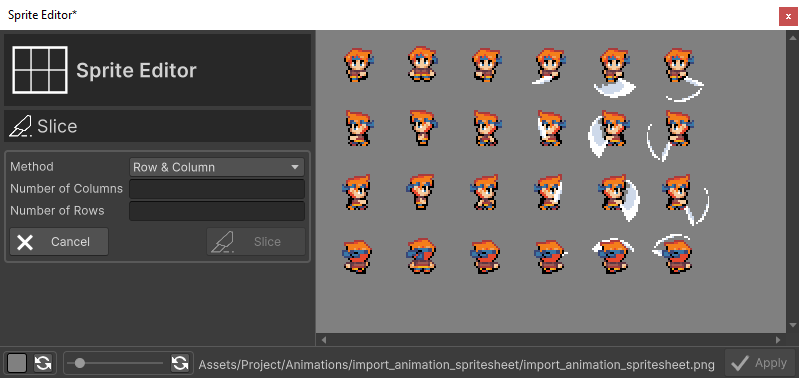
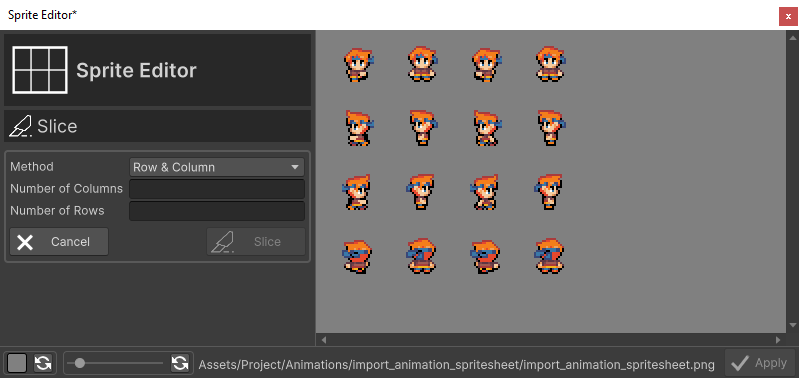
anim

diff --git a/scripts/config.py b/scripts/config.py
@@ -68,5 +68,16 @@ class config:
         'Aseprite',
         'Probuilder',
         'Assets Importer',
-        'Sprite Editor'
+        'Sprite Editor',
+        'Sprite Sheet',
+        'Sprite',
+        'Sprites',
+        'Slice',
+        'Animation',
+        'Animations',
+        'Props',
+        'Tile',
+        'Tiles',
+        'Collection',
+        'Collections'
     ]

diff --git a/src/en/stable/user_manual/assets_management/assets_importer/import_animations.md b/src/en/stable/user_manual/assets_management/assets_importer/import_animations.md
@@ -27,7 +27,7 @@ Aseprite File| Import an Aseprite file that already contain animation informatio
 
 ### Sprite Sheet
 
-Let's import this sample sprite sheet (a character walking and attacking in 4 directions) :
+Let's import this sample sprite sheet (a character walking in 4 directions) :
 
 ![import_animation_spritesheet.png](../../../../../../media/user_resources/import_animation_spritesheet.png)
 
@@ -35,7 +35,7 @@ Let's import this sample sprite sheet (a character walking and attacking in 4 di
 You can download all of our tutorial resources here : [download user_resources.zip file](https://rpgpowerforge.com/media/user_resources.zip)
 ```
 
-#### Import the sprite sheet file
+#### Import the Sprite Sheet file
 [[Select the Sprite Sheet button]] and choose the file to import in your file browser.
 ![import_animation_window_sprite_sheet.png](../../../../../../media/user_manual/assets_management/import_animation/import_animation_window_sprite_sheet.png)
 
@@ -45,34 +45,95 @@ The Sprite Sheet is imported into our Sprite Editor :
 
 
 #### Slice the Sprite Sheet
-A Sprite Sheet is usually composed of multiple Sprites arranged in a grid, like our current sample. We can slice the Sprite Sheet into indivisual Sprites with the Slice function. [[Select the Slice button]] :
+A Sprite Sheet is usually composed of multiple Sprites arranged in a grid, like our current sample. We can slice the Sprite Sheet into individual Sprites with the Slice function. [[Select the Slice button]] :
 ![import_animation_slice_view_no_slice.png](../../../../../../media/user_manual/assets_management/import_animation/import_animation_slice_view_no_slice.png)
+
+You can Slice a Sprite Sheet with 2 methods :
 
 Slice method|Description
 --------|--------
-Row & Column | Slice according to a number of row and columns
-Pixel Size | Slice according to X and Y individual Sprite size.
+Row & Column | Slice according to a number of rows and columns.
+Pixel Size | Slice according to X and Y individual Sprite size (width and height).
 
-Everytime you change method or fields values, you will see an updated preview of the slice (blue grid).
+Everytime you change a value, the slice preview will update (blue grid).
 
 ![import_animation_slice_view_no_slice.png](../../../../../../media/user_manual/assets_management/import_animation/import_animation_slice_view_row_column.png)
 
-[[Select Slice]] once the preview match your desire. You will go back to the main window of the Sprite Editor :
+[[Select the Slice button]] once the preview match your desire.  You will be redirected to the main Sprite Editor screen :
 
 ![import_animation_general_view_sliced.png](../../../../../../media/user_manual/assets_management/import_animation/import_animation_general_view_sliced.png)
 
-#### Delete Sprites
+#### Delete Sprites (optional)
 
 It is possible to remove unnecessary Sprites. 2 methods :
- * if the Sprite is empty, you can [[Select the Delete Empty Sprites button]] to remove all of the empty Sprites at once.
- * if the Sprite is not empty, you can :
-     * For a single sprite : select it + right-click > [[Delete]].
-     * For multiple sprites : select multiple with left-click + SHIFT key, then right-click > [[Delete]].
+ * **Automatic** : if the Sprite is empty, you can [[Select the Delete Empty Sprites button]] to remove all of the empty Sprites at once.
+ * **Manual** : if the Sprite is not empty, you can :
+     * For a single sprite : 
+       * Select the Sprite
+       * Right-click > [[Delete]].
+     * For multiple sprites (rectangle selection): 
+        * Select the first Sprite
+        * Select the last Sprite (while holding SHIFT key)
+        * Right-click > [[Delete]].
 
-![import_animation_general_view_delete_sprites.png](../../../../../../media/user_manual/assets_management/import_animation/import_animation_general_view_delete_sprites.gif)
+Here is an example of multiple Sprites deletion with SHIFT key.
+
+![import_animation_general_view_delete_sprites.gif](../../../../../../media/user_manual/assets_management/import_animation/import_animation_general_view_delete_sprites.gif)
 
 
-```admonish example title="Oops, I need to undo"
-No problemo, [[press CTRL + Z]] to undo last action :
-![import_animation_general_view_delete_sprites_undo.png](../../../../../../media/user_manual/assets_management/import_animation/import_animation_general_view_delete_sprites_undo.gif)
+```admonish question title="Help, I need to undo !"
+No problemo, [[press CTRL + Z]] to undo last action:
+![import_animation_general_view_delete_sprites_undo.gif](../../../../../../media/user_manual/assets_management/import_animation/import_animation_general_view_delete_sprites_undo.gif)
 ```
+
+#### Transparency colors (optional)
+
+```admonish note title="Good to go"
+Our current Sprite Sheet example doesn't need additional transparency settings, so you can skip this section if you are using it. Next section is [Validate the Sprite Sheet](./import_animations.md#validate-the-sprites-sheet) !
+```
+
+
+
+If necessary, you can define transparency colors for the Sprites. [[Select the Set Transparency button]].
+
+![import_animation_transparency_colors.png](../../../../../../media/user_manual/assets_management/import_animation/import_animation_transparency_colors.png)
+
+You can pick 2 different colors :
+ * One for **full transparency** (useful if you want to remove a background color). The color will be completely transparent.
+ * One for **semi-transparency** (useful for shadow, glass, tall-grass, etc.). The color will be half-transparent.
+
+In both cases, we recommend to use the **Color Picker** to select the desired color precisely on the Sprite Sheet.
+
+![import_animation_transparency_colors_picker.png](../../../../../../media/user_manual/assets_management/import_animation/import_animation_transparency_colors_picker.png)
+
+When you are satisfied with the results, [[Select the Apply button]]. You will be redirected to the main Sprite Editor screen.
+
+![import_animation_transparency_colors_picker_apply.png](../../../../../../media/user_manual/assets_management/import_animation/import_animation_transparency_colors_picker_apply.png)
+
+### Validate the Sprite Sheet
+
+You are now ready to go ! [[Select the Apply button]] in the bottom-right corner to go to the Animation creation !
+![import_animation_general_view_apply.png](../../../../../../media/user_manual/assets_management/import_animation/import_animation_general_view_apply.png)
+
+## Create Animations
+
+Welcome to the Animations Collection ! This editor will help you create animation easily !
+
+```admonish example title="Animations Collection window content"
+Please refer to the [detailled window content here](./../collections/animations_collection.md#window-content).
+```
+
+All of your Sprites are now sliced and can be used to create an Animation !
+
+![animation_collection_general_view.png](../../../../../../media/user_manual/assets_management/import_animation/animation_collection_general_view.png)
+
+### Manual creation
+
+You can create an animation manually :
+* Select the first Sprite
+* Select the last Sprite (while holding SHIFT key)
+* Right-click > [[Create Animation]]
+
+![animation_collection_general_view_create.gif](../../../../../../media/user_manual/assets_management/import_animation/animation_collection_general_view_create.gif)
+
+All of your Sprites are now sliced and can be used to create an Animation !
